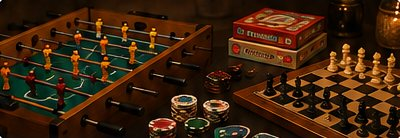
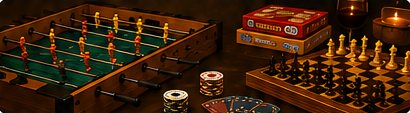
Atualiza o cartaz do Espaco Bem-Estar e recorta as fotos da nova versao

diff --git a/4-bem-estar.html b/4-bem-estar.html
@@ -102,7 +102,7 @@
         </div>
       </div>
       <div class="cuidado__corpo">
-        <img class="cuidado__foto" src="be-massagem.jpg" alt="Sessão de massagem relaxante nas costas." width="140" height="117" loading="lazy">
+        <img class="cuidado__foto" src="be-massagem.jpg" alt="Sessão de massagem relaxante nas costas." width="133" height="109" loading="lazy">
         <div>
           <p class="cuidado__desc">Relaxamento entre as atividades.</p>
         </div>
@@ -120,7 +120,7 @@
         </div>
       </div>
       <div class="cuidado__corpo">
-        <img class="cuidado__foto" src="be-maquiagem.jpg" alt="Pincéis e batons de maquiagem sobre superfície clara." width="124" height="117" loading="lazy">
+        <img class="cuidado__foto" src="be-maquiagem.jpg" alt="Pincéis e batons de maquiagem sobre superfície clara." width="118" height="109" loading="lazy">
         <div>
           <p class="cuidado__desc">Cuidado e autoestima.</p>
         </div>
@@ -138,7 +138,7 @@
         </div>
       </div>
       <div class="cuidado__corpo">
-        <img class="cuidado__foto" src="be-pilates.jpg" alt="Praticantes em posição de alongamento durante aula de pilates." width="137" height="102" loading="lazy">
+        <img class="cuidado__foto" src="be-pilates.jpg" alt="Praticantes em posição de alongamento durante aula de pilates." width="129" height="70" loading="lazy">
         <div>
           <p class="cuidado__desc">Movimento e alongamento.</p>
         </div>
@@ -156,7 +156,7 @@
         </div>
       </div>
       <div class="cuidado__corpo">
-        <img class="cuidado__foto cuidado__foto--alta" src="be-odontologica.jpg" alt="Consultório odontológico móvel com cadeira e equipamentos." width="138" height="166" loading="lazy">
+        <img class="cuidado__foto cuidado__foto--alta" src="be-odontologica.jpg" alt="Consultório odontológico móvel com cadeira e equipamentos." width="139" height="143" loading="lazy">
         <div>
           <ul class="cuidado__itens">
             <li>
@@ -194,7 +194,7 @@
         </div>
       </div>
       <div class="cuidado__corpo">
-        <img class="cuidado__foto" src="be-oftalmologica.jpg" alt="Equipamento de exame de vista em consultório." width="134" height="70" loading="lazy">
+        <img class="cuidado__foto" src="be-oftalmologica.jpg" alt="Equipamento de exame de vista em consultório." width="126" height="72" loading="lazy">
         <div>
           <ul class="cuidado__dados">
             <li>
@@ -213,18 +213,25 @@
         </span>
         <div>
           <h2 class="cuidado__nome">Vacinas</h2>
+          <p class="cuidado__quem">Somente dia 21/08, pela manhã</p>
         </div>
       </div>
-      <ul class="cuidado__dados">
-        <li>
-          <svg class="icone" aria-hidden="true"><use href="#i-calendario"/></svg>
-          <span><b>Dia</b>21 de agosto</span>
-        </li>
-        <li>
-          <svg class="icone" aria-hidden="true"><use href="#i-check"/></svg>
-          <span><b>Turno</b>Somente pela manhã</span>
-        </li>
-      </ul>
+      <div class="cuidado__corpo">
+        <img class="cuidado__foto" src="be-vacinas.jpg" alt="Mão com luva segurando frasco de vacina." width="133" height="60" loading="lazy">
+        <div>
+          <p class="cuidado__desc">Cuidado que protege.</p>
+          <ul class="cuidado__dados">
+            <li>
+              <svg class="icone" aria-hidden="true"><use href="#i-calendario"/></svg>
+              <span><b>Dia</b>21 de agosto</span>
+            </li>
+            <li>
+              <svg class="icone" aria-hidden="true"><use href="#i-check"/></svg>
+              <span><b>Turno</b>Somente pela manhã</span>
+            </li>
+          </ul>
+        </div>
+      </div>
     </li>
 
     <li class="cuidado" style="--cor: var(--navy);">
@@ -264,7 +271,7 @@
           <h2 class="cuidado__nome">Sala de jogos</h2>
         </div>
       </div>
-      <img class="cuidado__foto cuidado__foto--larga" src="be-jogos.jpg" alt="Mesa com jogos de tabuleiro, xadrez e fichas." width="400" height="138" loading="lazy">
+      <img class="cuidado__foto cuidado__foto--larga" src="be-jogos.jpg" alt="Mesa com jogos de tabuleiro, xadrez e fichas." width="410" height="113" loading="lazy">
       <p class="cuidado__desc">Integração e descontração.</p>
     </li>
 
